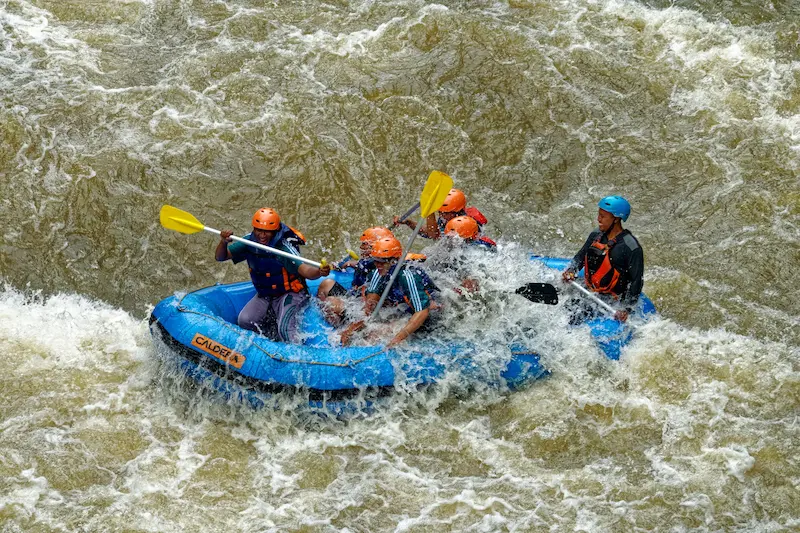
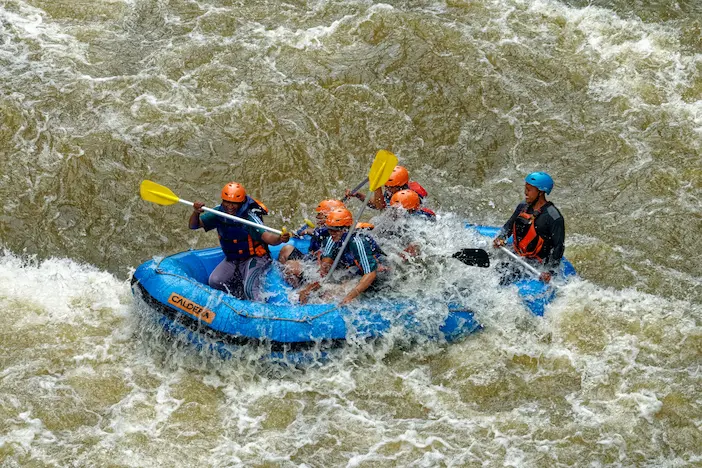
W04 Update AboutUs Page

diff --git a/wwr/styles/rafting.css b/wwr/styles/rafting.css
@@ -101,6 +101,8 @@ header nav a {
 .history h2 {
     color: var(--primary-color);
     margin-bottom: 20px;
+    padding-bottom: 10px;
+    border-bottom: 3px solid var(--secondary-color);
 }
 
 .history-content {
